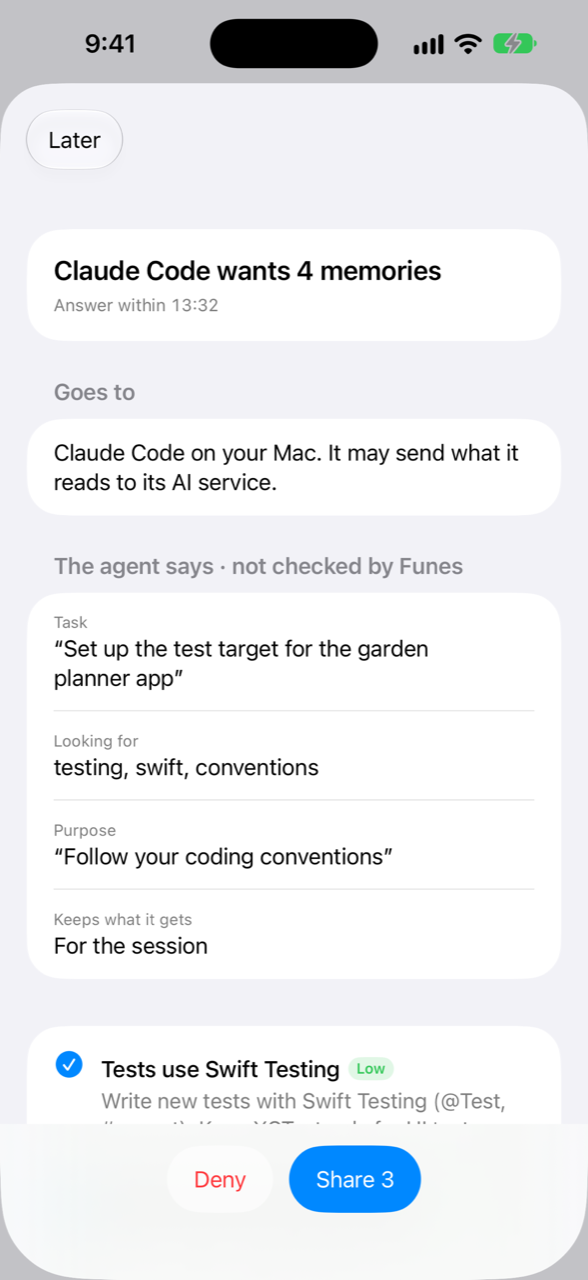
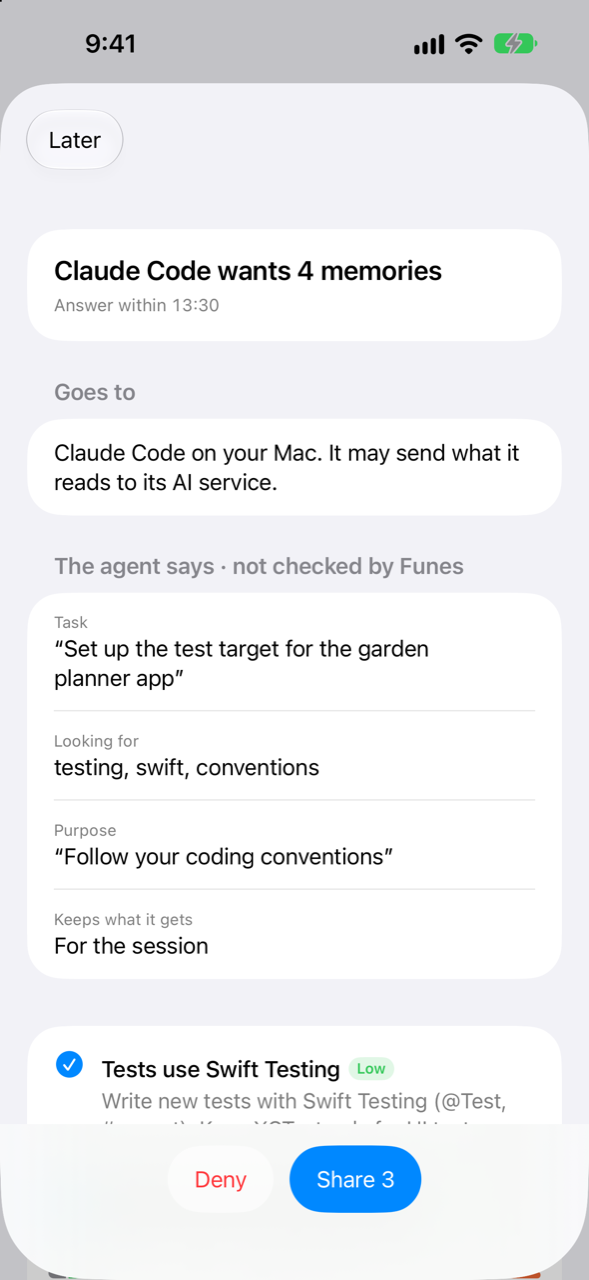
Website and README: the iPhone screenshots from 0.5.0
Home with the week and its tiles, and the Share panel, from build 24's demo mode
(1320 × 2868, scaled to 589 × 1280). The README's FAQ shows the same Home.

diff --git a/site/index.html b/site/index.html
@@ -198,8 +198,8 @@
             <p class="meta">iOS 18 or later · Pairs with Funes Vault on your Mac · No Mac yet? Try the demo in the app</p>
           </div>
           <div class="phones">
-            <img class="shot phone" src="/assets/screenshots/iphone-home.png" alt="Funes Vault for iPhone, Home: a box asking what Funes should remember, three requests waiting for an answer, this week’s chart of memories saved and shared, and tiles for memories, rhythm, sensitivity and who reads the vault." width="588" height="1280" loading="lazy">
-            <img class="shot phone" src="/assets/screenshots/iphone-approval.png" alt="Funes Vault for iPhone: Claude Code wants 4 memories. The panel shows where they go, what the agent says, and the memories with checkboxes, with Deny and Share 3." width="588" height="1280" loading="lazy">
+            <img class="shot phone" src="/assets/screenshots/iphone-home.png" alt="Funes Vault for iPhone, Home: a box asking what Funes should remember, three requests waiting for an answer, this week’s chart of memories saved and shared, and the Memories and Rhythm tiles below it." width="589" height="1280" loading="lazy">
+            <img class="shot phone" src="/assets/screenshots/iphone-approval.png" alt="Funes Vault for iPhone: Claude Code wants 4 memories. The panel shows where they go, what the agent says, and the memories with checkboxes, with Deny and Share 3." width="589" height="1280" loading="lazy">
           </div>
         </div>
       </div>

diff --git a/site/assets/screenshots/README.md b/site/assets/screenshots/README.md
@@ -6,4 +6,4 @@ The landing page (`site/index.html`) shows two of the README's Mac screenshots, 
 cp docs/images/{share-panel,remote-access}-{light,dark}.png docs/images/iphone-{home,approval}.png site/assets/screenshots/
 ```
 
-and don't commit the copies. Regenerate the Mac ones with `sh scripts/ui_snapshots.sh` (sample data in a throwaway vault, never a real one). The iPhone ones come from demo mode (`sh scripts/app_store_screenshots.sh`, scenes `home` and `share`), scaled to about 588 × 1280: `sips -Z 1280`.
+and don't commit the copies. Regenerate the Mac ones with `sh scripts/ui_snapshots.sh` (sample data in a throwaway vault, never a real one). The iPhone ones come from demo mode (`sh scripts/app_store_screenshots.sh`, scenes `home` and `share`), scaled to 589 × 1280: `sips -Z 1280`.
